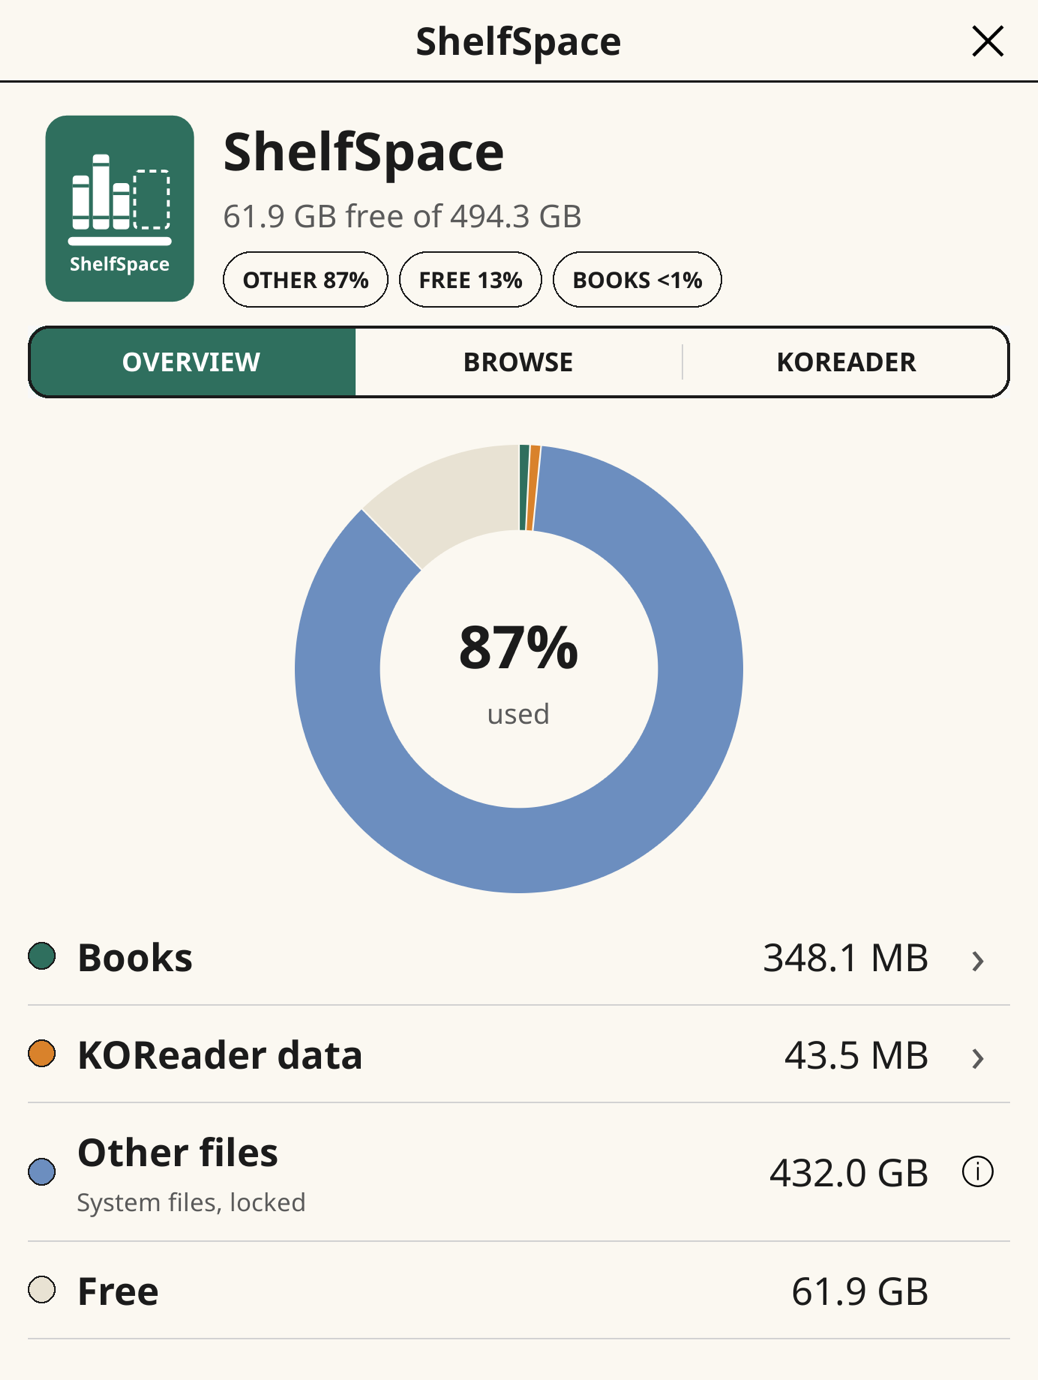
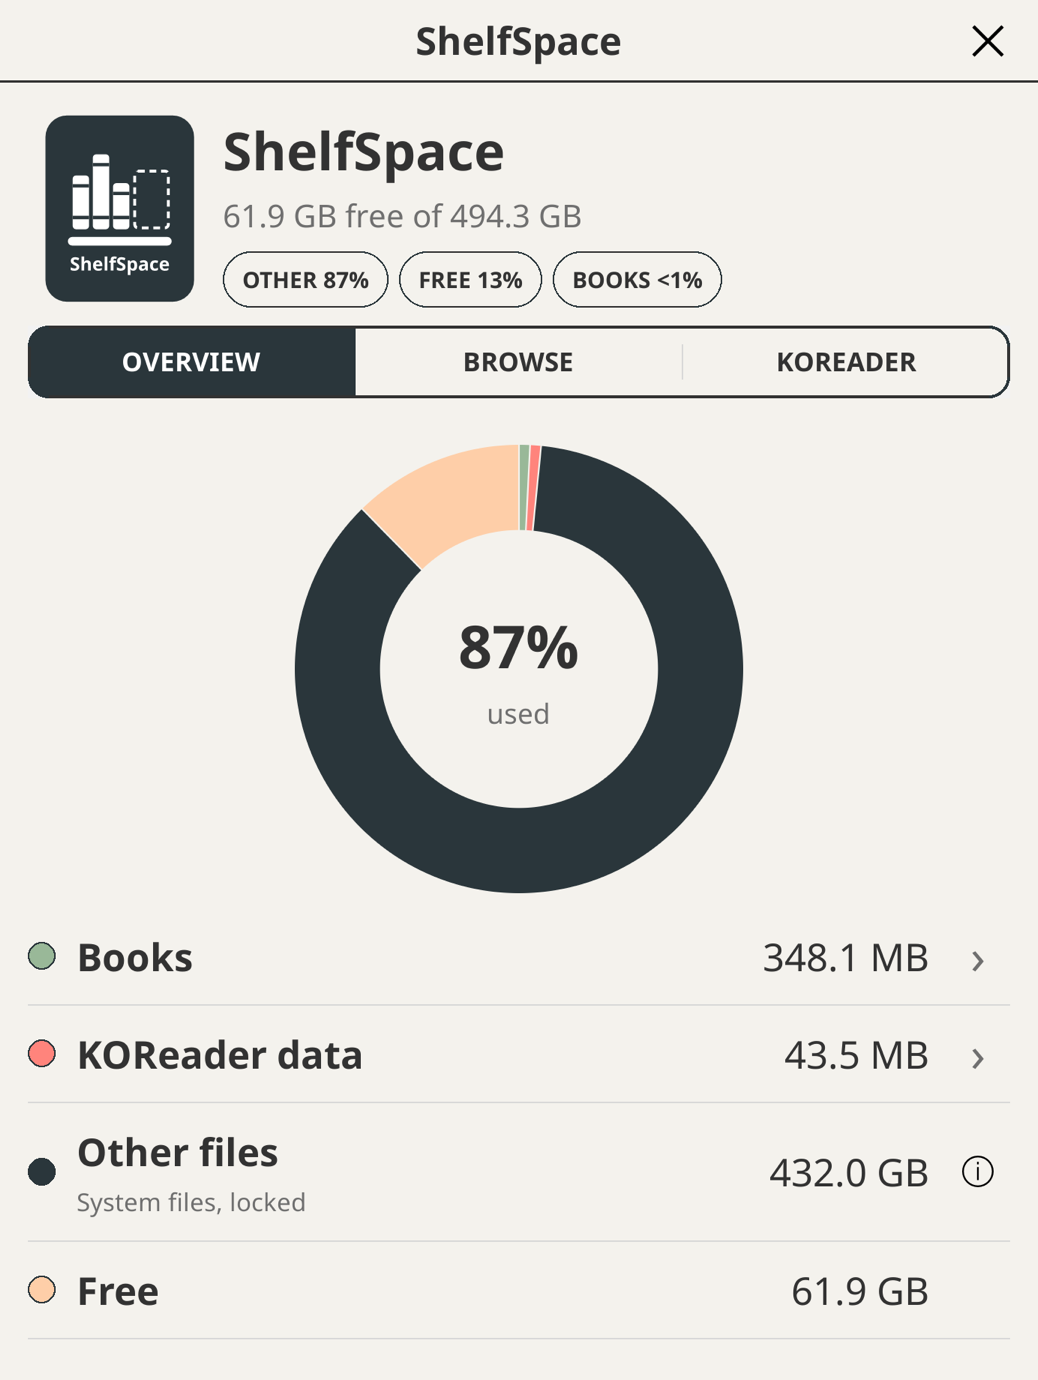
feat: the Coup de Grace palette, a colour for each header, and glyphs that stay readable
The page is beige (#F4F2ED) with slate ink; sage, coral, peach and slate colour the chart and the file tiles, and raspberry marks the buttons that delete. Each header has its own tile: slate for ShelfSpace, sage for the Library, coral for KOReader. The glyph on a tile is white or the ink, whichever has more contrast (white on slate and raspberry, ink on sage, coral and peach), so KOReader's recoloured logo and the mark stay legible on every tile. Gray screens keep their grays.

The README logos are slate for light pages and peach for dark ones; the palette is credited in the README. README screenshots retaken.

diff --git a/README.md b/README.md
@@ -87,3 +87,6 @@ reading progress, the donut's geometry and the icons:
 ## License
 
 MIT
+
+The colours are the palette [Coup de Grâce](https://www.colourlovers.com/palette/1098589/coup-de-grce)
+from COLOURlovers, on a beige page.
